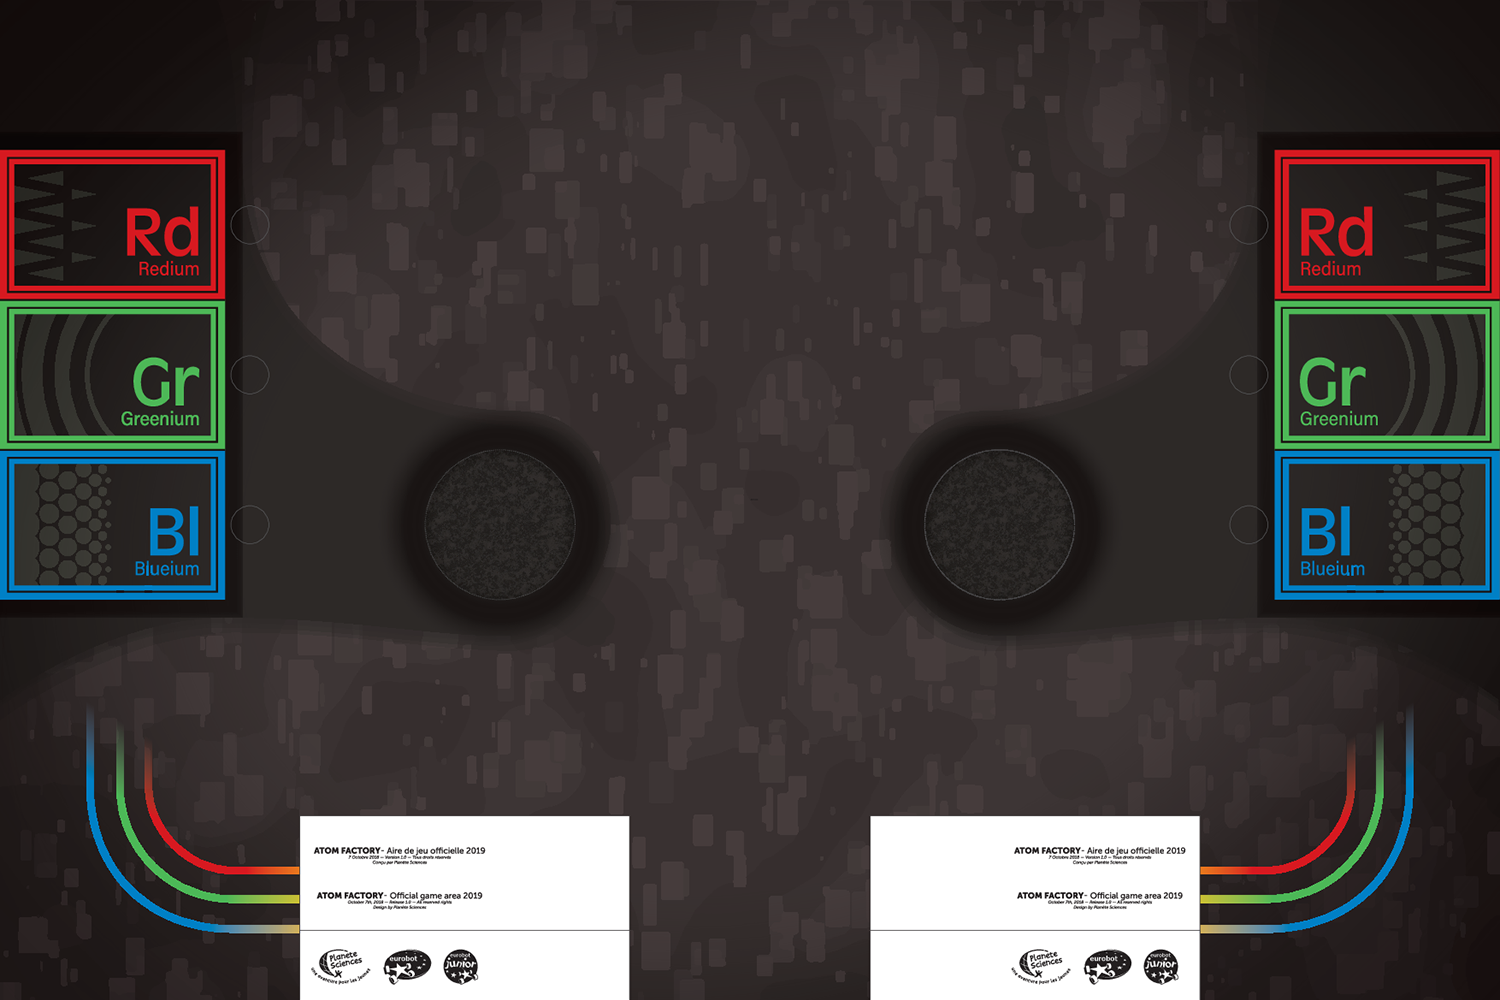
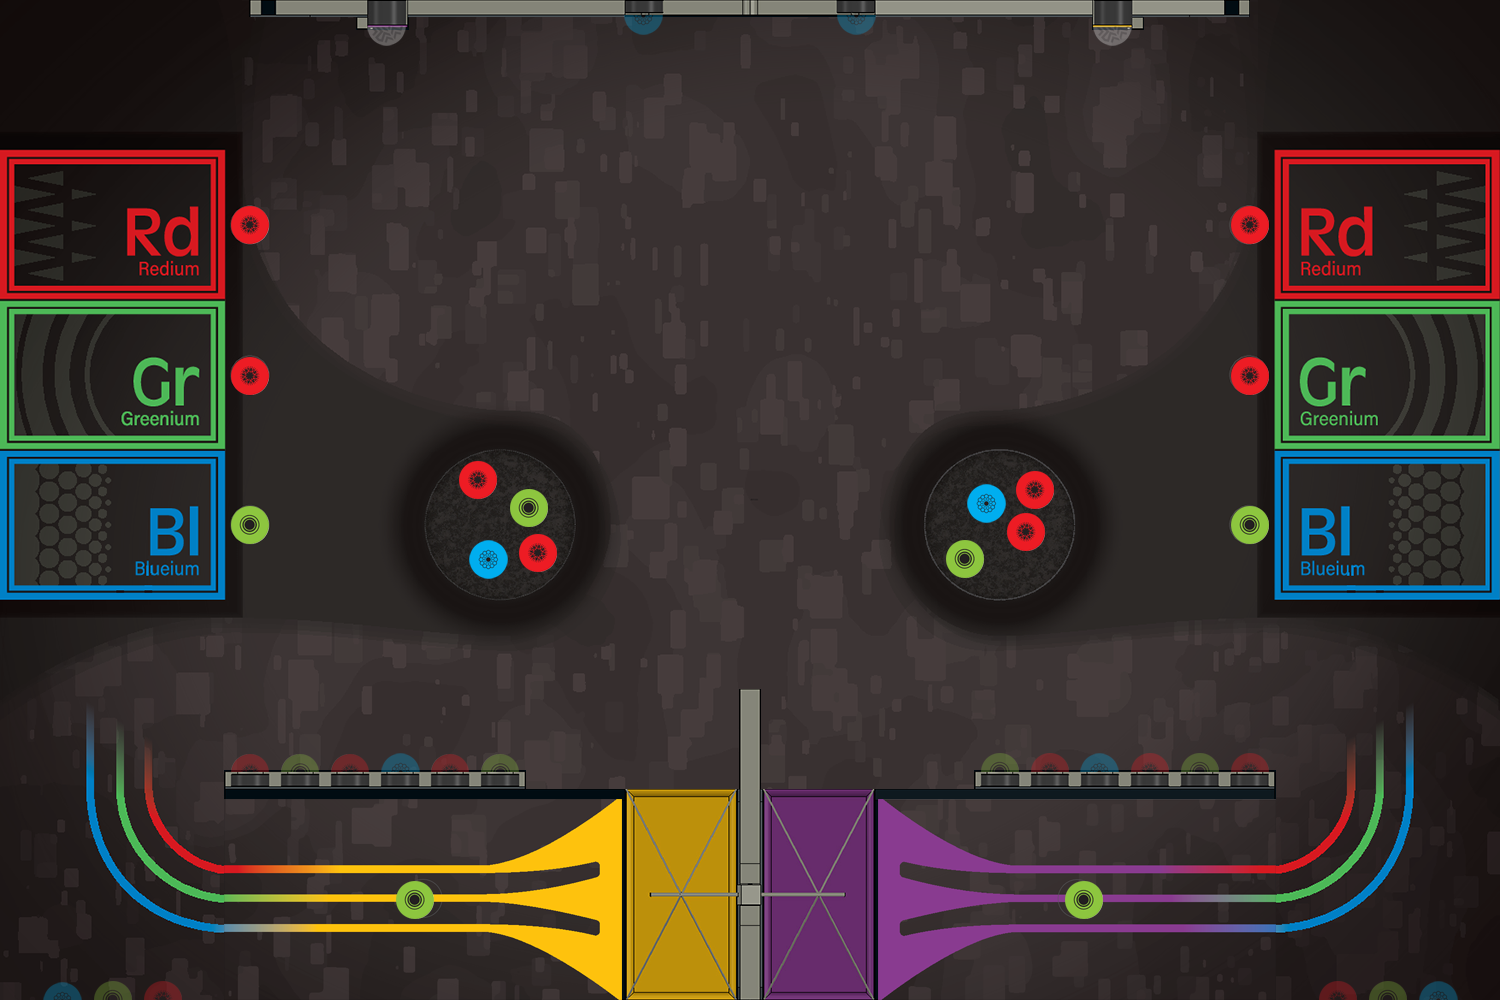
WIP

diff --git a/src/app/components/map-input/map-input.component.ts b/src/app/components/map-input/map-input.component.ts
@@ -48,6 +48,9 @@ export class MapInputComponent implements OnChanges, AfterViewInit {
   ngAfterViewInit(): void {
     console.log('MapInput view init');
 
+  }
+
+  setStage() {
     this.stage = new Konva.Stage({
       container: this.mapContainer.nativeElement,
       width: this.table.width * this.table.imageRatio,
@@ -93,6 +96,215 @@ export class MapInputComponent implements OnChanges, AfterViewInit {
   }
 
   ngOnChanges(changes: SimpleChanges): void {
+    if (changes['tableZoom']) {
+      this.setZoom();
+    }
+    if (changes['table']) {
+      if (this.table) {
+        console.log('MapInput table change');
+      }
+      this.setStage();
+      this.setTable();
+      this.moveElfa();
+    }
+    if (changes['robotPosition'] && this.robots[0].position) {
+      this.moveNerell(this.robots[0].position);
+      this.drawPoints(this.robots[0].position);
+      this.drawMouvement(this.robots[0].position);
+
+      this.mainLayer.drawScene();
+    }
+    if (changes['team']) {
+      if (this.robots[0].team) {
+        console.log('MapInput team change');
+      }
+      this.setTable();
+      this.moveElfa();
+    }
+  }
+
+  setTable() {
+    if (this.stage && this.table && this.robots[0].team) {
+      console.log('setTable');
+      let done = 0;
+      const checkDone = function () {
+        done++;
+        if (done === 2) {
+          this.setZoom();
+          this.background.drawScene();
+        }
+      }.bind(this);
+
+      this.background.getChildren().each(item => {
+        item.remove();
+        item.destroy();
+      });
+
+      const tableLoader = new Image();
+
+      tableLoader.onload = function () {
+        const image = new Konva.Image({
+          x: 0, y: 0,
+          image: tableLoader,
+          width: this.table.width * this.table.imageRatio,
+          height: this.table.height * this.table.imageRatio
+        });
+
+        this.background.add(image);
+        image.moveToBottom();
+
+        checkDone();
+      }.bind(this);
+
+      tableLoader.src = 'assets/tables/' + this.table.name + '.png';
+
+      const maskLoader = new Image();
+
+      maskLoader.onload = function () {
+        const image = new Konva.Image({
+          x: 0, y: 0,
+          image: maskLoader,
+          width: this.table.width * this.table.imageRatio,
+          height: this.table.height * this.table.imageRatio,
+          opacity: 0.2
+        });
+
+        this.background.add(image);
+        image.moveToTop();
+
+        checkDone();
+      }.bind(this);
+
+      maskLoader.src = 'assets/pathMasks/' + this.table.name + '-' + this.robots[0].team + '.png';
+    }
+  }
+
+  moveNerell(position: RobotPosition) {
+    if (this.nerell && this.table) {
+      this.nerell.position({
+        x: position.x * this.table.imageRatio,
+        y: (this.table.height - position.y) * this.table.imageRatio
+      });
+      this.nerell.rotation(-position.angle);
+    }
+  }
+
+  moveElfa() {
+    if (this.elfa && this.robots[0].team && this.table) {
+      this.elfa.position({
+        x: this.table.elfa[this.robots[0].team].x * this.table.imageRatio,
+        y: (this.table.height - this.table.elfa[this.robots[0].team].y) * this.table.imageRatio
+      });
+      this.elfa.rotation(-this.table.elfa[this.robots[0].team].a);
+    }
+  }
+
+  drawPoints(data: RobotPosition) {
+    if (this.points && this.table) {
+      this.points.getChildren().each((item) => {
+        item.remove();
+        item.destroy();
+      });
+
+      if (data.pointsLidar) {
+        data.pointsLidar.forEach((point) => {
+          this.points.add(new Konva.Circle({
+            x: point.x * this.table.imageRatio,
+            y: (this.table.height - point.y) * this.table.imageRatio,
+            radius: this.tableZoom * 4,
+            fill: 'black'
+          }));
+        });
+      }
+
+      if (data.pointsCapteurs) {
+        data.pointsCapteurs.forEach((point) => {
+          this.points.add(new Konva.Circle({
+            x: point.x * this.table.imageRatio,
+            y: (this.table.height - point.y) * this.table.imageRatio,
+            radius: this.tableZoom * 4,
+            fill: 'black',
+            stroke: 'rgba(0, 0, 0, 0.5)',
+            strokeWidth: this.tableZoom * 20
+          }));
+        });
+      }
+
+      if (data.collisions) {
+        data.collisions.forEach((cercle) => {
+          this.points.add(new Konva.Circle({
+            x: cercle.centre.x * this.table.imageRatio,
+            y: (this.table.height - cercle.centre.y) * this.table.imageRatio,
+            radius: cercle.rayon * this.table.imageRatio,
+            fill: 'rgba(0, 0, 0, 0.2)'
+          }));
+        });
+      }
+    }
+  }
+
+  drawMouvement(data: RobotPosition) {
+    if (this.mouvement && this.table) {
+      this.mouvement.getChildren().each((item) => {
+        item.remove();
+        item.destroy();
+      });
+
+      const points = [];
+
+      if (data.targetMvt) {
+        switch (data.targetMvt.type) {
+          case 'PATH':
+            data.targetMvt.path.forEach(point => {
+              points.push(
+                point.x * this.table.imageRatio,
+                (this.table.height - point.y) * this.table.imageRatio,
+              );
+            });
+
+            this.mouvement.add(new Konva.Arrow({
+              x: 0, y: 0,
+              points: points,
+              stroke: 'red',
+              fill: 'red',
+              strokeWidth: 2,
+              pointerLength: 5,
+              pointerWidth: 5
+            }));
+            break;
+
+          case 'ROTATION':
+            this.mouvement.add(new Konva.Arrow({
+              x: data.x * this.table.imageRatio,
+              y: (this.table.height - data.y) * this.table.imageRatio,
+              rotation: -data.targetMvt.toAngle,
+              points: [0, 0, 100, 0],
+              stroke: 'red',
+              fill: 'red',
+              strokeWidth: 4,
+              pointerLength: 10,
+              pointerWidth: 10
+            }));
+            break;
+
+          case 'TRANSLATION':
+            points.push(
+              data.targetMvt.fromPoint.x * this.table.imageRatio,
+              (this.table.height - data.targetMvt.fromPoint.y) * this.table.imageRatio,
+              data.targetMvt.toPoint.x * this.table.imageRatio,
+              (this.table.height - data.targetMvt.toPoint.y) * this.table.imageRatio
+            );
+
+            this.mouvement.add(new Konva.Line({
+              x: 0, y: 0,
+              points: points,
+              stroke: 'red',
+              strokeWidth: 4
+            }));
+            break;
+        }
+      }
+    }
   }
 
   mousedown(e) {

diff --git a/src/app/views/capteurs/capteurs.component.ts b/src/app/views/capteurs/capteurs.component.ts
@@ -16,9 +16,6 @@ export class CapteursComponent implements OnInit, OnDestroy {
 
   robots: Robot[];
 
-  capteurs: any;
-  codeurs: any;
-
   subs: Subscription[] = [];
 
   constructor(private route: ActivatedRoute,
@@ -60,30 +57,27 @@ export class CapteursComponent implements OnInit, OnDestroy {
   fetch(robot: Robot) {
     this.capteursService.getCapteurs(robot)
       .subscribe(capteurs => robot.capteurs = capteurs);
-
-    // this.codeursService.getCodeurs(this.robot)
-    //   .then(codeurs => this.codeurs = codeurs);
   }
 
-  setTirette(present: boolean) {
-    // this.capteursService.setTirette(this.robot, present)
-    //   .subscribe((result) => {
-    //     this.capteurs.numerique.Tirette = result;
-    //   });
+  setTirette(robot: Robot, present: boolean) {
+    this.capteursService.setTirette(robot, present)
+      .subscribe((result) => {
+        robot.capteurs.numerique.Tirette = result;
+      });
   }
 
-  setTeam(team: string) {
-    // this.capteursService.setTeam(this.robot, team)
-    //   .subscribe((result) => {
-    //     this.capteurs.text.Equipe = result;
-    //   });
+  setTeam(robot: Robot, team: string) {
+    this.capteursService.setTeam(robot, team)
+      .subscribe((result) => {
+        robot.capteurs.text.Equipe = result;
+      });
   }
 
-  setAu(present: boolean) {
-    // this.capteursService.setAu(this.robot, present)
-    //   .subscribe((result) => {
-    //     this.capteurs.numerique.AU = result;
-    //   });
+  setAu(robot: Robot, present: boolean) {
+    this.capteursService.setAu(robot, present)
+      .subscribe((result) => {
+        robot.capteurs.numerique.AU = result;
+      });
   }
 
 }

diff --git a/src/app/views/capteurs/capteurs.component.html b/src/app/views/capteurs/capteurs.component.html
@@ -5,31 +5,31 @@
       <div>
         <button type="button" class="btn btn-success"
                 *ngIf="!robot.capteurs?.numerique.Tirette"
-                (click)="setTirette(true)">
+                (click)="setTirette(robot, true)">
           Mettre la tirette
         </button>
         <button type="button" class="btn btn-success"
                 *ngIf="robot.capteurs?.numerique.Tirette"
-                (click)="setTirette(false)">
+                (click)="setTirette(robot, false)">
           Enlever la tirette
         </button>
         <button type="button" class="btn btn-success"
                 *ngIf="!robot.capteurs?.numerique.AU"
-                (click)="setAu(true)">
+                (click)="setAu(robot, true)">
           Enclencher l'AU
         </button>
         <button type="button" class="btn btn-success"
                 *ngIf="robot.capteurs?.numerique.AU"
-                (click)="setAu(false)">
+                (click)="setAu(robot, false)">
           Claquer l'AU
         </button>
         <div class="btn-group">
           <button type="button" class="btn btn-warning {{robot.capteurs?.text.Equipe === 'JAUNE' ? 'btn-active' : ''}}"
-                  (click)="setTeam('JAUNE')">
+                  (click)="setTeam(robot, 'JAUNE')">
             Jaune
           </button>
           <button type="button" class="btn btn-primary {{robot.capteurs?.text.Equipe === 'BLEU' ? 'btn-active' : ''}}"
-                  (click)="setTeam('BLEU')">
+                  (click)="setTeam(robot, 'BLEU')">
             Bleu
           </button>
         </div>

diff --git a/src/app/views/map/map.component.ts b/src/app/views/map/map.component.ts
@@ -1,5 +1,5 @@
 import {RobotTabComponent} from "../robot/robotTab.component";
-import {Component} from "@angular/core";
+import {Component, OnInit} from "@angular/core";
 import {RobotsService} from "../../services/robots.service";
 import {Table} from "../../models/Table";
 import {IntervalObservable} from "rxjs-compat/observable/IntervalObservable";
@@ -14,7 +14,7 @@ import {RobotPosition} from "../../models/RobotPosition";
   templateUrl: './map.component.html',
   styleUrls: ['./map.component.scss']
 })
-export class MapComponent extends RobotTabComponent {
+export class MapComponent extends RobotTabComponent implements OnInit {
 
   Tables: Table[];
   currentTable: Table;
@@ -39,10 +39,13 @@ export class MapComponent extends RobotTabComponent {
     super(robotsService);
   }
 
-  protected afterFetchedRobots() {
+  preOnInit() {
+    console.log('map preOnInit');
     this.Tables = Tables;
     this.currentTable = Tables[0];
+  }
 
+  protected afterFetchedRobots() {
     this.robots.forEach(robot => {
       this.capteursService.getCapteurs(robot)
         .subscribe((capteurs: any) => {

diff --git a/src/app/views/robot/robotTab.component.ts b/src/app/views/robot/robotTab.component.ts
@@ -12,7 +12,10 @@ export abstract class RobotTabComponent implements OnInit, OnDestroy {
 
   protected abstract afterFetchedRobots();
 
+  preOnInit(){};
+
   ngOnInit(): void {
+    this.preOnInit();
     this.robotsService.getNotifySelectedRobotObservable()
       .subscribe((robots: Robot[]) => {
         if (robots !== null) {

diff --git a/src/app/views/map/map.component.html b/src/app/views/map/map.component.html
@@ -1,5 +1,5 @@
 <div class="row">
-  <div class="col-9">
+  <div class="col-9" *ngIf="robots">
     <app-map-input [table]="currentTable"
                    [tableZoom]="currentZoom"
                    [robots]="robots"
